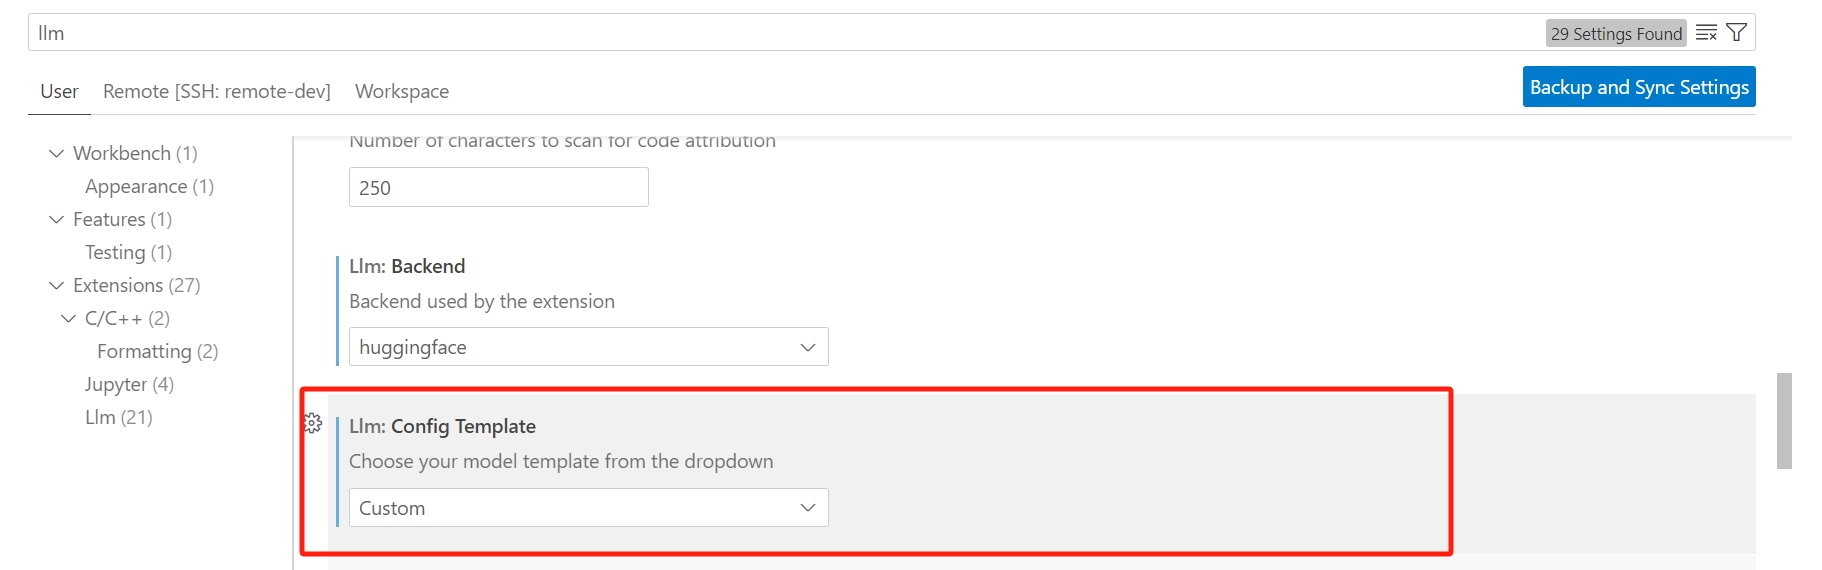
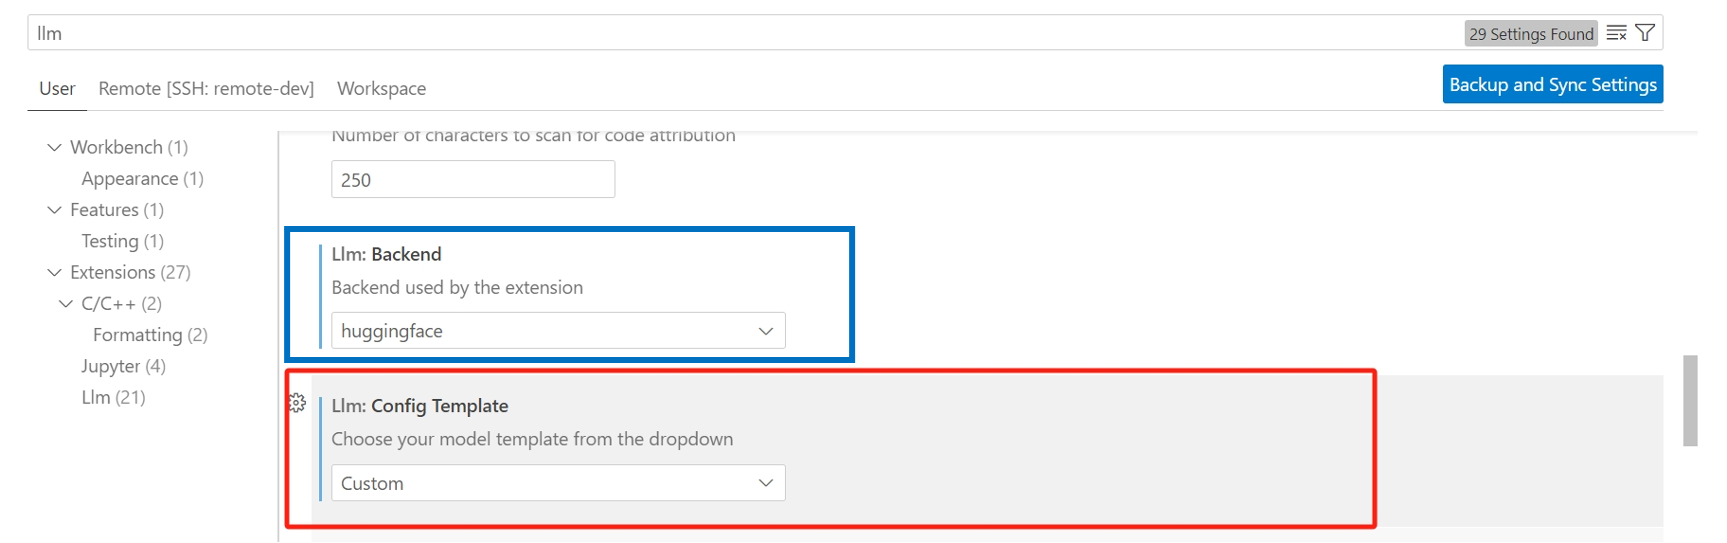
fix starcoder example

diff --git a/llm/inference/starcoder/generators.py b/llm/inference/starcoder/generators.py
@@ -1,7 +1,5 @@
 from mindnlp.transformers import GenerationConfig
 from mindnlp.transformers import Pipeline, pipeline
-import mindspore
-
 
 class GeneratorBase:
     def generate(self, query: str, parameters: dict) -> str:
@@ -12,12 +10,12 @@ class GeneratorBase:
 
 
 class StarCoder(GeneratorBase):
-    def __init__(self, pretrained: str, mirror: str = 'modelscope'):
+    def __init__(self, pretrained: str, mirror: str = 'huggingface'):
         self.pretrained: str = pretrained
         self.mirror: str = mirror
         self.pipe: Pipeline = pipeline(
             "text-generation", model=pretrained, mirror=mirror)
-        self.generation_config = GenerationConfig.from_pretrained(pretrained)
+        self.generation_config = GenerationConfig.from_pretrained(pretrained, mirror=mirror)
         self.generation_config.pad_token_id = self.pipe.tokenizer.eos_token_id
 
     def generate(self, query: str, parameters: dict) -> str:

diff --git a/llm/inference/starcoder/main.py b/llm/inference/starcoder/main.py
@@ -18,9 +18,7 @@ async def api(request: Request):
     json_request: dict = await request.json()
     inputs: str = json_request['inputs']
     parameters: dict = json_request['parameters']
-    logger.info(f'{request.client.host}:{request.client.port} inputs = {json.dumps(inputs)}')
     generated_text: str = generator.generate(inputs, parameters)
-    logger.info(f'{request.client.host}:{request.client.port} generated_text = {json.dumps(generated_text)}')
     return {
         "generated_text": generated_text.replace(inputs, ""),
         "status": 200

diff --git a/llm/inference/starcoder/util.py b/llm/inference/starcoder/util.py
@@ -17,6 +17,6 @@ def get_parser() -> argparse.ArgumentParser:
     parser = argparse.ArgumentParser()
     parser.add_argument('--port', type=int, default=8000)
     parser.add_argument('--host', type=str, default='0.0.0.0')
-    parser.add_argument('--mirror', type=str, default='modelscope')
+    parser.add_argument('--mirror', type=str, default='huggingface')
     parser.add_argument('--pretrained', type=str, required=True)
     return parser

diff --git a/llm/inference/starcoder/README.md b/llm/inference/starcoder/README.md
@@ -23,7 +23,9 @@ starcoder server for [llm-vscode](https://github.com/huggingface/llm-vscode) cus
 3. **Run application on port**
 
     ```shell
-    python main.py --pretrained bigcode/starcoder2-7b
+    python main.py --pretrained bigscience/starcoder2-7b
+    # use mirror if you cannot access huggingface
+    python main.py --pretrained AI-ModelScope/starcoder2-7b --mirror modelscope
     ```
 
     It may take a while to download the model checkpoint for the first time. Please change the mirror address by `--mirror` argument if it takes too long.
@@ -35,7 +37,7 @@ starcoder server for [llm-vscode](https://github.com/huggingface/llm-vscode) cus
     1) Select `Skip TLS verification for insecure connections`.
         ![llm-vscode-settings](./assets/llm-vscode-TLS-verification.png)
     
-    2) Change `Llm:ConfigTemplate` to `Custom`.
+    2) Change `Llm:Backend` to `tgi` and `Llm:ConfigTemplate` to `Custom`.
         ![llm-vscode-settings](./assets/llm-vscode-config-template.png)
     
     3) Select `Edit in settings.json` in `Llm:Url`.
